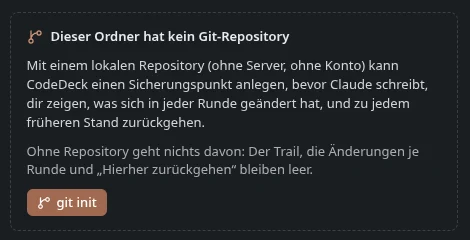
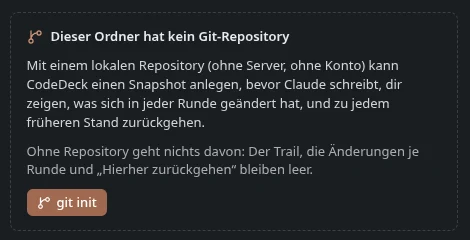
CodeDeck manual: Snapshot as in the interface, explained at its first mention
The reference page sicherungspunkte becomes snapshots.

Claude-Session: https://claude.ai/code/session_01AmUU1ckh5iDie4vHPz56Cn

Changed region(s): [[0.0596, 0.4083, 0.8936, 0.4667], [0.2979, 0.3208, 0.9234, 0.3792]]

diff --git a/src/pages/codedeck/manual/de/tutorial/05-aenderungen.md b/src/pages/codedeck/manual/de/tutorial/05-aenderungen.md
@@ -13,7 +13,7 @@ Deine Session meldet **Runde fertig**. Jetzt kommt der wichtigste Schritt einer 
 
 ## Was eine Runde ist
 
-Eine **Runde** ist alles, was eine KI-Session auf einen deiner Prompts hin tut, bis sie fertig ist und wieder auf dich wartet. CodeDeck legt vor der ersten Änderung einer Runde einen Sicherungspunkt an und, wenn sich etwas geändert hat, einen zweiten am Ende. Was zwischen diesen beiden Punkten liegt, ist genau das, was die Runde geändert hat. So kannst du jede Runde für sich ansehen, auch wenn mehrere Sessions im selben Projekt arbeiten.
+Eine **Runde** ist alles, was eine KI-Session auf einen deiner Prompts hin tut, bis sie fertig ist und wieder auf dich wartet. CodeDeck legt vor der ersten Änderung einer Runde einen **Snapshot** an, eine Sicherung deiner Projektdateien, und, wenn sich etwas geändert hat, einen zweiten am Ende. Was zwischen diesen beiden Punkten liegt, ist genau das, was die Runde geändert hat. So kannst du jede Runde für sich ansehen, auch wenn mehrere Sessions im selben Projekt arbeiten.
 
 ## Was du dir ansiehst
 
@@ -21,11 +21,11 @@ Oben im Reiter wählst du, welche Änderungen angezeigt werden:
 
 - **Alles nicht Committete** zeigt alle Änderungen seit dem letzten Commit, egal von wem. So öffnet der Reiter, wenn du nichts anderes gewählt hast.
 - **Runde 6**, **Runde 7** und so weiter zeigen die letzten Runden, jeweils mit dem Kurznamen der Session. Ältere Runden seit dem letzten Commit findest du unter **Frühere**.
-- Wählst du einen Punkt auf dem **Trail**, zeigt der Reiter, was dieser Commit oder Sicherungspunkt geändert hat. Klickst du mit gedrückter **Strg**-Taste einen zweiten Punkt an, vergleicht CodeDeck die beiden. Mehr dazu in [Kapitel 8](/codedeck/manual/de/tutorial/08-trail/).
+- Wählst du einen Punkt auf dem **Trail**, zeigt der Reiter, was dieser Commit oder Snapshot geändert hat. Klickst du mit gedrückter **Strg**-Taste einen zweiten Punkt an, vergleicht CodeDeck die beiden. Mehr dazu in [Kapitel 8](/codedeck/manual/de/tutorial/08-trail/).
 
 ![Eine gewählte Runde im Reiter Änderungen: „Was Claude in Runde 6 getan hat“ mit „fertig 11:45“, darunter die Session, was du gefragt hast, was sie am Ende gesagt hat, die Zahlen der Änderungen und der Baum der geänderten Dateien](/codedeck/manual/de/aenderungen-runde.webp)
 
-Bei einer Runde steht oben ein **Kurzbericht**: welche Session sie ausgeführt hat, was du gefragt hast und was die Session am Ende gesagt hat. Läuft die Runde noch, steht dort **arbeitet noch**, und du siehst, was sich bisher geändert hat. Rechts daneben hängst du mit **Anhängen** die ganze Runde an deinen nächsten Prompt, öffnest sie mit **Dirq** nebeneinander in einem Diff-Programm, falls es installiert ist, oder springst mit **Vor dieser Runde…** zum Sicherungspunkt davor, von dem aus du zurückgehen kannst.
+Bei einer Runde steht oben ein **Kurzbericht**: welche Session sie ausgeführt hat, was du gefragt hast und was die Session am Ende gesagt hat. Läuft die Runde noch, steht dort **arbeitet noch**, und du siehst, was sich bisher geändert hat. Rechts daneben hängst du mit **Anhängen** die ganze Runde an deinen nächsten Prompt, öffnest sie mit **Dirq** nebeneinander in einem Diff-Programm, falls es installiert ist, oder springst mit **Vor dieser Runde…** zum Snapshot davor, von dem aus du zurückgehen kannst.
 
 ## Den Diff lesen
 

diff --git a/src/pages/codedeck/manual/de/tutorial/02-projektfenster.md b/src/pages/codedeck/manual/de/tutorial/02-projektfenster.md
@@ -20,7 +20,7 @@ Das Projektfenster ist in Spalten aufgeteilt. Jede Spalte beantwortet eine Frage
 2. **Die Sessions** daneben zeigen alle KI-Sessions dieses Projekts, was sie gerade tun und ob eine auf dich wartet. Oben in dieser Spalte startest du neue Sessions. Darum geht es in Kapitel 3, [KI-Session starten](/codedeck/manual/de/tutorial/03-session-starten/).
 3. **Nächster Prompt** unten in derselben Spalte fasst zusammen, was du für die nächste Runde an den Prompt gehängt hast. Kapitel 7, [Nächster Prompt](/codedeck/manual/de/tutorial/07-naechster-prompt/), erklärt das Anhängen.
 4. **Das Deck** in der Mitte ist die große Arbeitsfläche. Es hat vier Reiter: **Aktivität** zeigt, was die Sessions in den letzten Stunden getan haben, **Änderungen** zeigt, was sie geändert haben, **Werkbank** sammelt, was sonst noch angefallen ist, und **Nächster Prompt** zeigt alles, was mit deinem nächsten Prompt mitgeht. Rechts in der Reiterleiste steht die Frage, die der offene Reiter beantwortet, und die Glocke daneben zeigt dir die letzten Ereignisse und Tipps. Jeder Reiter hat sein eigenes Kapitel, von [Aktivität](/codedeck/manual/de/tutorial/04-aktivitaet/) bis [Nächster Prompt](/codedeck/manual/de/tutorial/07-naechster-prompt/).
-5. **Der Trail** ist die schmale Spalte mit der senkrechten Linie. Er zeigt den Verlauf deines Projekts in Git und die Sicherungspunkte, und seine Farbe sagt dir, wie sicher deine Arbeit gerade ist. Mehr dazu in Kapitel 8, [Trail und Sicherungspunkte](/codedeck/manual/de/tutorial/08-trail/).
+5. **Der Trail** ist die schmale Spalte mit der senkrechten Linie. Er zeigt den Verlauf deines Projekts in Git und die Snapshots, also die Sicherungen, die CodeDeck während der Runden anlegt, und seine Farbe sagt dir, wie sicher deine Arbeit gerade ist. Mehr dazu in Kapitel 8, [Trail und Snapshots](/codedeck/manual/de/tutorial/08-trail/).
 6. **Die Dateiliste** ganz rechts zeigt die Dateien deines Projekts als Baum. Oben steht der Branch, auf dem du arbeitest, und von dort aus erreichst du die Git-Aktionen wie Commit und Push. Wenn du ein Projekt zum ersten Mal öffnest, ist die Dateiliste zugeklappt, damit das Deck mehr Platz hat. Von ihr siehst du dann nur eine schmale Leiste am rechten Rand. Mit dem Knopf oben in dieser Leiste oder mit **Strg+B** blendest du sie ein, im Bild ist sie eingeblendet. Darum geht es in Kapitel 9, [Dateien und Commit](/codedeck/manual/de/tutorial/09-commit/).
 
 Du musst dir diese Aufteilung nicht sofort merken. Jedes Symbol in CodeDeck erklärt sich in einem kleinen Hinweis, wenn du mit der Maus darauf zeigst. Und die Führung „Tutorial: Projektfenster“ im CodeDeck-Menü leuchtet die Bereiche bei Bedarf noch einmal der Reihe nach aus.

diff --git a/src/pages/codedeck/manual/de/einleitung/index.md b/src/pages/codedeck/manual/de/einleitung/index.md
@@ -18,7 +18,7 @@ Der Chat zeigt dir dabei aber nur einen langen, durchlaufenden Text. Nach einer 
 
 CodeDeck ist eine Desktop-App für Linux, die neben deinem Coding-Agent läuft. Sie übernimmt nicht das Gespräch mit der KI, sondern zeigt dir, was dabei herauskommt.
 
-In einem eigenen Fenster siehst du jederzeit, **welche KI-Sessions** in deinem Projekt arbeiten, welche gerade **auf dich warten** und **was sie geändert haben**. Jedes Mal, bevor eine Session in deinem Projekt etwas ändert, legt CodeDeck von selbst einen **Sicherungspunkt** an, zu dem du später zurückkehren kannst. Und wenn du der KI für den nächsten Schritt etwas mitgeben möchtest, etwa eine Datei, eine Änderung oder einen Kommentar zu einer Zeile, sammelt CodeDeck das für dich und hängt es an deinen **nächsten Prompt**.
+In einem eigenen Fenster siehst du jederzeit, **welche KI-Sessions** in deinem Projekt arbeiten, welche gerade **auf dich warten** und **was sie geändert haben**. Jedes Mal, bevor eine Session in deinem Projekt etwas ändert, legt CodeDeck von selbst einen **Snapshot** an, eine Sicherung deiner Projektdateien, zu der du später zurückkehren kannst. Und wenn du der KI für den nächsten Schritt etwas mitgeben möchtest, etwa eine Datei, eine Änderung oder einen Kommentar zu einer Zeile, sammelt CodeDeck das für dich und hängt es an deinen **nächsten Prompt**.
 
 CodeDeck drängt sich dabei nicht in den Vordergrund. Solange alles läuft, kannst du das Fenster ignorieren oder in den Hintergrund schieben. Erst wenn eine Session etwas von dir braucht, meldet sich CodeDeck.
 
@@ -50,6 +50,6 @@ Der erste Weg sind die **Hooks** deines Coding-Agents. Hooks sind kleine Befehle
 
 Der zweite Weg ist **Git**. Den Stand deines Projekts, die Änderungen und den Verlauf liest CodeDeck mit dem ganz normalen Programm `git` auf der Kommandozeile. Deshalb gelten deine eigene Git-Konfiguration und deine Zugangsdaten, und jeder Befehl, den CodeDeck ausführt, wird dir angezeigt.
 
-Auch die **Sicherungspunkte** sind Git-Commits. CodeDeck legt sie aber nicht auf deinen Branches an, sondern unter einem eigenen Namen (`refs/codedeck/snapshots/`) und über eine Kopie des Git-Index. Deine Branches, dein Index und das, was du pushst, bleiben dadurch unberührt.
+Auch die **Snapshots** sind Git-Commits. CodeDeck legt sie aber nicht auf deinen Branches an, sondern unter einem eigenen Namen (`refs/codedeck/snapshots/`) und über eine Kopie des Git-Index. Deine Branches, dein Index und das, was du pushst, bleiben dadurch unberührt.
 
 </aside>

diff --git a/src/pages/codedeck/manual/de/index.md b/src/pages/codedeck/manual/de/index.md
@@ -21,7 +21,7 @@ draft: true
    („Schreibt eine KI-Session, …“), sondern „Wenn eine KI-Session …“. Ein neuer Gesichtspunkt beginnt einen neuen
    Absatz. Wichtige Begriffe dezent hervorheben (fett), damit man das Thema beim Überfliegen findet.
  - Begriffe wie in der Oberfläche: „KI-Session“ (bei der ersten Nennung im Absatz, danach „Session“), „Coding-Agent“
-   für das Programm (nie „KI-Werkzeug“, nie „Sitzung“), „Runde“, „Sicherungspunkt“, „Trail“, „Deck“, „Werkbank“,
+   für das Programm (nie „KI-Werkzeug“, nie „Sitzung“), „Runde“, „Snapshot“ (bei der ersten Nennung auf einer Seite kurz erklärt: eine Sicherung der Projektdateien, zu der man zurückkehren kann), „Trail“, „Deck“, „Werkbank“,
    „Nächster Prompt“, „Anhängen“. Namen von Knöpfen und Reitern genau wie in der deutschen Oberfläche.
  - Jede Aussage über das Verhalten vor dem Schreiben im Code prüfen (CodeDeck-Repo: `CLAUDE.md` „Karte“, dann die
    genannten Dateien; `docs/KONZEPT.md` für das Warum). Was nicht gebaut ist, steht nicht im Handbuch.
@@ -46,7 +46,7 @@ draft: true
 **Inhalt:** Eine Geschichte in der Du-Form (keine Figur mit Namen), etwa eine Bildschirmseite: Du startest morgens dein
    Projekt, gibst einer KI-Session eine Aufgabe und arbeitest an etwas anderem. CodeDeck meldet, dass die Session
    etwas fragt; du antwortest. Die Runde ist fertig, du siehst dir den Diff an, kommentierst eine Zeile, hängst
-   eine Datei an und schickst den nächsten Prompt. Etwas geht schief, du gehst zu einem Sicherungspunkt zurück.
+   eine Datei an und schickst den nächsten Prompt. Etwas geht schief, du gehst zu einem Snapshot zurück.
    Am Ende committest und pushst du. Jede Station in einem Satz mit dem Bereich von CodeDeck, der dabei hilft,
    und verlinkt auf die passende Seite im Tutorial. Ein Überblicksbild des Projektfensters dazu.
 

diff --git a/src/pages/codedeck/manual/de/einleitung/nutzen.md b/src/pages/codedeck/manual/de/einleitung/nutzen.md
@@ -34,7 +34,7 @@ CodeDeck zeigt dir die Änderungen an einem Ort. Zuerst siehst du als Übersicht
 
 Manchmal gefällt dir das Ergebnis einer Runde nicht, oder die KI hat sich verrannt. Ohne Vorsorge ist es mühsam, den Stand von vorher wiederherzustellen, besonders wenn du seit dem letzten Commit noch anderes geändert hast.
 
-CodeDeck legt deshalb von selbst einen **Sicherungspunkt** an, bevor eine Session in einer Runde zum ersten Mal etwas in deinem Projekt ändert, und einen weiteren, wenn sie fertig ist. Du siehst diese Punkte auf dem **Trail**, dem Verlauf deines Projekts am Rand des Fensters. Mit einem Klick auf einen Sicherungspunkt siehst du, was sich seitdem geändert hat, und mit „Hierher zurückgehen“ stellst du die Dateien so wieder her, wie sie zu diesem Zeitpunkt waren. Bevor CodeDeck das tut, sichert es auch den aktuellen Stand. Du kannst den Schritt zurück also ebenfalls wieder rückgängig machen.
+CodeDeck legt deshalb von selbst einen **Snapshot** an, also eine Sicherung deiner Projektdateien, bevor eine Session in einer Runde zum ersten Mal etwas in deinem Projekt ändert, und einen weiteren, wenn sie fertig ist. Du siehst diese Punkte auf dem **Trail**, dem Verlauf deines Projekts am Rand des Fensters. Mit einem Klick auf einen Snapshot siehst du, was sich seitdem geändert hat, und mit „Hierher zurückgehen“ stellst du die Dateien so wieder her, wie sie zu diesem Zeitpunkt waren. Bevor CodeDeck das tut, sichert es auch den aktuellen Stand. Du kannst den Schritt zurück also ebenfalls wieder rückgängig machen.
 
 Der Trail zeigt dir außerdem mit seiner Farbe, **wie sicher deine Arbeit** gerade ist: ob es noch Änderungen gibt, die nicht committet sind, ob deine Commits nur auf deinem Rechner liegen oder ob sie schon auf einem Server sind.
 

diff --git a/src/pages/codedeck/manual/de/tutorial/08-trail.md b/src/pages/codedeck/manual/de/tutorial/08-trail.md
@@ -1,18 +1,18 @@
 ---
 layout: ../../../../../layouts/Manual.astro
-title: "Sicher aufbewahrt: Trail und Sicherungspunkte"
-nav: "Trail und Sicherungspunkte"
+title: "Sicher aufbewahrt: Trail und Snapshots"
+nav: "Trail und Snapshots"
 part: 2
 order: 8
 purpose: >-
-  Du liest am Trail ab, wie sicher deine Arbeit ist, und gehst zu einem Sicherungspunkt zurück, wenn eine Runde danebenging.
+  Du liest am Trail ab, wie sicher deine Arbeit ist, und gehst zu einem Snapshot zurück, wenn eine Runde danebenging.
 draft: true
 ---
 
 <aside class="plan">
 
 **Arbeitsanweisung:** Entspricht Schritt 8 der Führung. Prüfen: `Trail.tsx`, `src-tauri/src/snapshot.rs`, `history.rs`. Bilder:
- Trail zu und aufgeklappt, die drei Farben, ein Sicherungspunkt gewählt, Zurückgehen und Rückgängigmachen.
+ Trail zu und aufgeklappt, die drei Farben, ein Snapshot gewählt, Zurückgehen und Rückgängigmachen.
 
 </aside>
 
@@ -33,16 +33,16 @@ draft: true
 
 </aside>
 
-## Sicherungspunkte
+## Snapshots
 
 <aside class="plan">
 
 **Inhalt:** Wann CodeDeck sie setzt (vor dem ersten Schreiben einer Runde, am Ende), dass sie keine Commits sind und nicht
-   gepusht werden. Link Nachschlagen → Sicherungspunkte.
+   gepusht werden. Link Nachschlagen → Snapshots.
 
 </aside>
 
-## Zu einem Sicherungspunkt zurückgehen
+## Zu einem Snapshot zurückgehen
 
 <aside class="plan">
 
@@ -55,6 +55,6 @@ draft: true
 
 <aside class="plan">
 
-**Inhalt:** Nach einer Runde zum Sicherungspunkt davor zurückgehen und es wieder rückgängig machen.
+**Inhalt:** Nach einer Runde zum Snapshot davor zurückgehen und es wieder rückgängig machen.
 
 </aside>

diff --git a/src/pages/codedeck/manual/de/tutorial/03-session-starten.md b/src/pages/codedeck/manual/de/tutorial/03-session-starten.md
@@ -14,7 +14,7 @@ Jetzt beginnt die eigentliche Arbeitsrunde. In diesem Kapitel startest du eine K
 
 Eine **KI-Session** ist ein Gespräch mit deinem Coding-Agent in einem bestimmten Projekt. Du schreibst im Chat der Session, was du möchtest, und die KI arbeitet daraufhin in deinem Projektordner: Sie liest Dateien, ändert sie und führt Befehle aus. Die Session läuft in einem Terminal oder in der Desktop-App deines Coding-Agents, nicht in CodeDeck. CodeDeck zeigt dir, was sie tut.
 
-In einem Projekt können mehrere Sessions gleichzeitig laufen, zum Beispiel eine für eine neue Funktion und eine für die Dokumentation. Jede bekommt in CodeDeck eine eigene **Farbe** und einen **Kurznamen** aus einem Buchstaben, die sie überall behält: in der Sessionspalte, an den Dateien, die sie geändert hat, und an ihren Sicherungspunkten auf dem Trail. Mehr über Sessions erfährst du auf der Seite [KI-Sessions](/codedeck/manual/de/nachschlagen/sessions/).
+In einem Projekt können mehrere Sessions gleichzeitig laufen, zum Beispiel eine für eine neue Funktion und eine für die Dokumentation. Jede bekommt in CodeDeck eine eigene **Farbe** und einen **Kurznamen** aus einem Buchstaben, die sie überall behält: in der Sessionspalte, an den Dateien, die sie geändert hat, und an ihren Snapshots auf dem Trail. Mehr über Sessions erfährst du auf der Seite [KI-Sessions](/codedeck/manual/de/nachschlagen/sessions/).
 
 ## Eine Session starten
 

diff --git a/src/pages/codedeck/manual/de/einleitung/weiter.md b/src/pages/codedeck/manual/de/einleitung/weiter.md
@@ -20,7 +20,7 @@ Eine Kurzfassung davon steckt auch in CodeDeck selbst. Im CodeDeck-Menü hinter 
 
 ## Nachschlagen: wenn du etwas genau wissen willst
 
-Der Teil [Nachschlagen](/codedeck/manual/de/nachschlagen/) ist nach Themen geordnet und muss nicht der Reihe nach gelesen werden. Jede Seite behandelt ein Thema vollständig, zum Beispiel KI-Sessions, Änderungen und Runden, Sicherungspunkte, den nächsten Prompt, die Werkbank, Meldungen oder Einstellungen. Hierher kommst du, wenn du im Alltag auf eine Frage stößt oder eine Funktion genauer verstehen möchtest, als das Tutorial sie erklärt.
+Der Teil [Nachschlagen](/codedeck/manual/de/nachschlagen/) ist nach Themen geordnet und muss nicht der Reihe nach gelesen werden. Jede Seite behandelt ein Thema vollständig, zum Beispiel KI-Sessions, Änderungen und Runden, Snapshots, den nächsten Prompt, die Werkbank, Meldungen oder Einstellungen. Hierher kommst du, wenn du im Alltag auf eine Frage stößt oder eine Funktion genauer verstehen möchtest, als das Tutorial sie erklärt.
 
 Zum Nachschlagen gehören auch die Grundlagen zu Git und zur Arbeit mit einer KI, die Tastenkürzel und ein Glossar mit allen Begriffen. Wenn etwas nicht so funktioniert, wie du es erwartest, hilft dir die Seite [Wenn etwas nicht klappt](/codedeck/manual/de/nachschlagen/probleme/) weiter.
 

diff --git a/src/pages/codedeck/manual/de/tutorial/index.md b/src/pages/codedeck/manual/de/tutorial/index.md
@@ -35,6 +35,6 @@ Eine **Runde** ist alles, was eine KI-Session auf einen deiner Prompts hin tut, 
 5. [Änderungen](/codedeck/manual/de/tutorial/05-aenderungen/): Du siehst dir an, was eine Runde geändert hat, und kommentierst einzelne Zeilen.
 6. [Werkbank](/codedeck/manual/de/tutorial/06-werkbank/): Du schaust, was neben dem eigentlichen Projekt entstanden ist.
 7. [Nächster Prompt](/codedeck/manual/de/tutorial/07-naechster-prompt/): Du gibst der KI für die nächste Runde mit, was sie braucht.
-8. [Trail und Sicherungspunkte](/codedeck/manual/de/tutorial/08-trail/): Du siehst, wie sicher deine Arbeit ist, und gehst bei Bedarf zurück.
+8. [Trail und Snapshots](/codedeck/manual/de/tutorial/08-trail/): Du siehst, wie sicher deine Arbeit ist, und gehst bei Bedarf zurück.
 9. [Dateien und Commit](/codedeck/manual/de/tutorial/09-commit/): Du findest dich im Dateibaum zurecht und bringst das Ergebnis mit Commit und Push in Git.
 10. [Runde abschließen](/codedeck/manual/de/tutorial/10-naechste-runde/): Du fasst die Runde zusammen, beginnst die nächste und arbeitest mit mehreren Sessions und Projekten zugleich.

diff --git a/src/pages/codedeck/manual/de/einleitung/abgrenzung.md b/src/pages/codedeck/manual/de/einleitung/abgrenzung.md
@@ -34,4 +34,4 @@ CodeDeck macht sichtbar, was die KI geändert hat, und es macht es leicht, einen
 
 ## Keine Bremse für die KI
 
-CodeDeck fragt nicht vor jeder Änderung nach, ob die KI sie machen darf. Die KI arbeitet so frei, wie du es in deinem Coding-Agent eingestellt hast. Abgesichert wird stattdessen hinterher: Weil vor jeder Runde ein Sicherungspunkt entsteht, kannst du jederzeit zurück. Das ist bequemer, als jeden einzelnen Schritt vorher zu genehmigen.
+CodeDeck fragt nicht vor jeder Änderung nach, ob die KI sie machen darf. Die KI arbeitet so frei, wie du es in deinem Coding-Agent eingestellt hast. Abgesichert wird stattdessen hinterher: Weil vor jeder Runde ein Snapshot entsteht, kannst du jederzeit zurück. Das ist bequemer, als jeden einzelnen Schritt vorher zu genehmigen.
